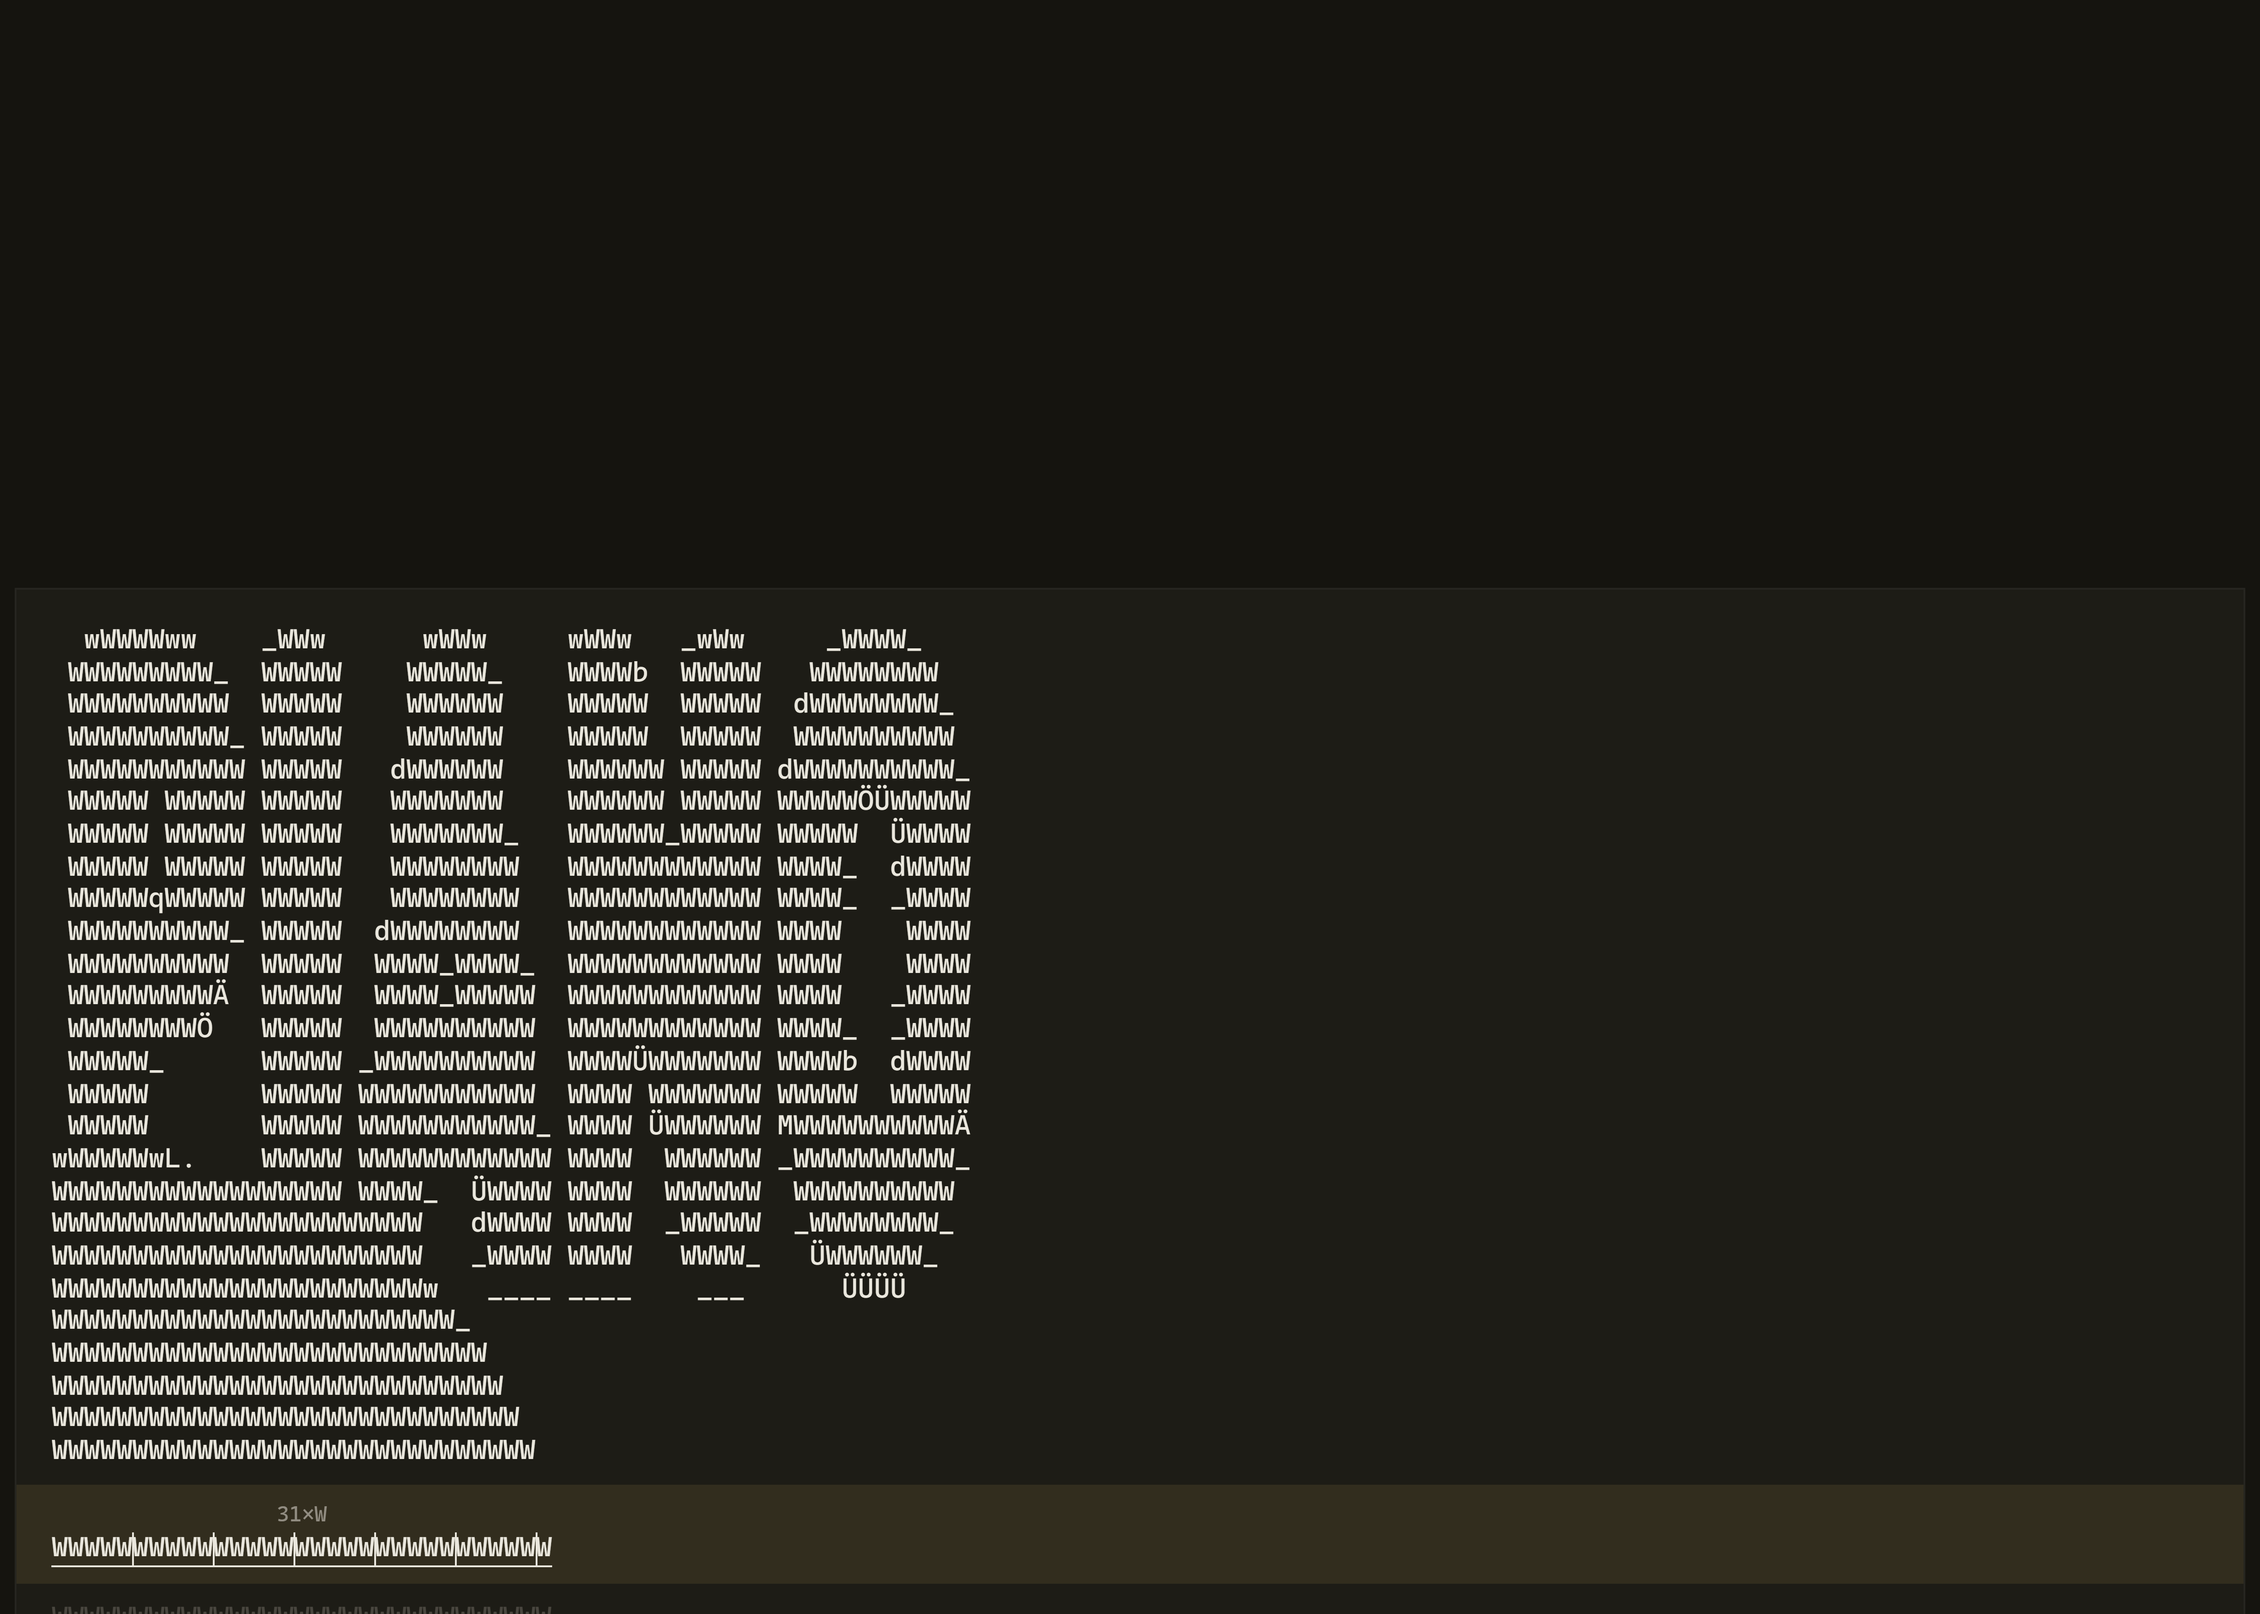
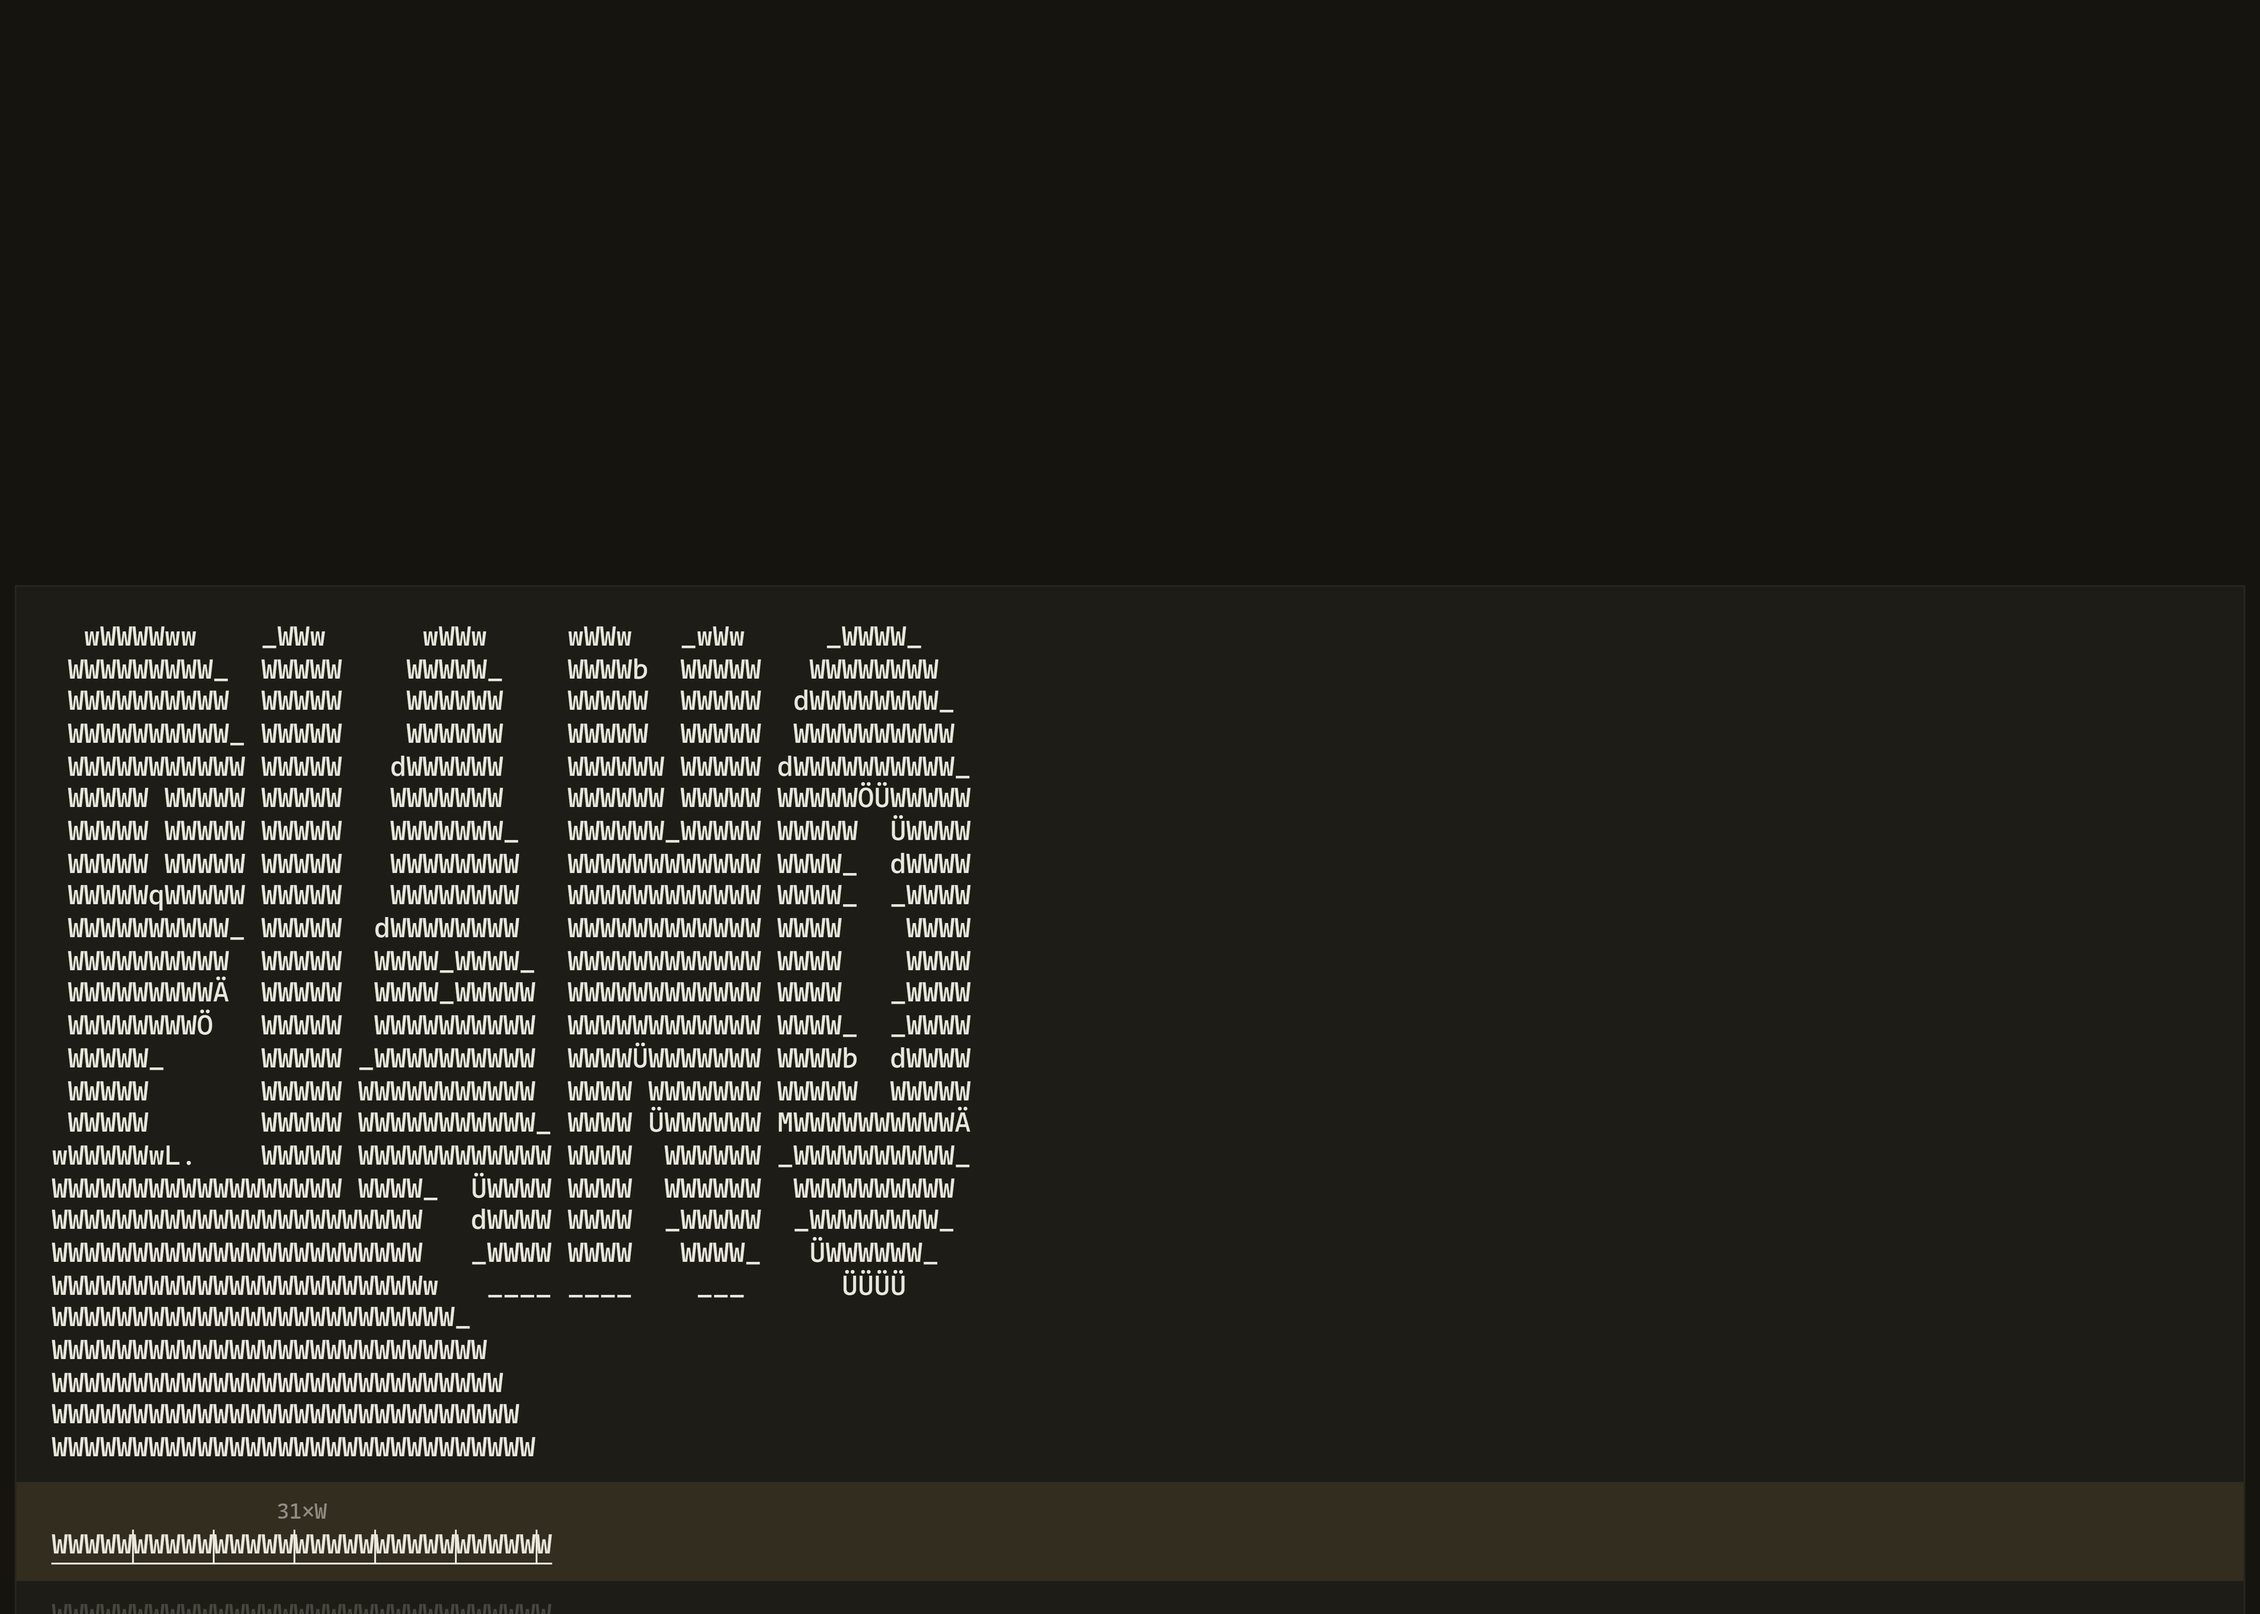
a surface is picked for its edges, not just its ink
A browser's monospace can measure W a shade heavier than B or M, and
then every solid stem of the lettering came out as rows of sawteeth -
peaks and valleys at both cell edges, white gaps between the lines.
Coverage cannot see the one thing that decides whether a stack of one
character reads as a stroke.

So the atlas now measures each glyph's edges: per column, where the ink
begins and ends, and how far those outlines stray from their medians.
The heaviest tone - the one used as a surface, stacked against itself -
is picked among the weights the eye could not tell apart on paper, by
the flatness of those edges. In Courier New that is M, two percent of
ink under W and four times as even. The table atlas measures no edges
and keeps its rank order, so the command line still answers B, honestly,
from the face it was measured against. And a later tone can no longer
outweigh the surface: a shadow heavier than its face is upside down.

The hero screenshot follows the fix.

Changed region(s): [[0.0312, 0.375, 0.4375, 0.9062], [0.0312, 0.9375, 0.25, 0.9688]]

diff --git a/src/core/ink.js b/src/core/ink.js
@@ -137,6 +137,11 @@ function inkCentres(atlas) {
 export function inkLadder({ atlas = null, allowed = null } = {}) {
   const weight = inkWeights(atlas);
   const centre = inkCentres(atlas);
+  // Edge evenness travels with the ladder where the atlas measured it; a
+  // table atlas has none, and zero means "no reason to distrust the edges".
+  const raggedBy = new Map((atlas?.glyphs ?? [])
+    .filter((g) => typeof g.ragged === 'number')
+    .map((g) => [g.ch, g.ragged]));
   const pool = allowed
     ? [...allowed]
     : (atlas?.glyphs ?? []).map((g) => g.ch).filter((c) => c !== ' ');
@@ -146,7 +151,10 @@ export function inkLadder({ atlas = null, allowed = null } = {}) {
   for (const ch of pool) {
     if (ch === ' ' || ch === '\n' || seen.has(ch)) continue;
     seen.add(ch);
-    out.push({ ch, weight: weight(ch), centre: centre(ch) });
+    out.push({
+      ch, weight: weight(ch), centre: centre(ch),
+      ragged: raggedBy.get(ch) ?? 0,
+    });
   }
   // Ties broken by character so the same machine always yields the same
   // ladder — a picker that reshuffles between redraws is unusable.
@@ -181,6 +189,43 @@ const TIE = 3;
 const RANK_COST = 0.02;
 
 /**
+ * Weights this close under the heaviest are the same ink to the eye, and
+ * the flattest edge among them should win the surface. The gap that *is*
+ * visible is known: `H` at 0.171 standing in for `B` at 0.204 — 16% down —
+ * was the flat-grey-wall fault this file exists to fix. 8% keeps the true
+ * dark cluster together and that fault out.
+ */
+const SURFACE_TIE = 0.08;
+
+/**
+ * The heaviest tone is not just the most ink — it is used as a *surface*,
+ * stacked against itself, row upon row, in every solid stroke of the
+ * lettering. Coverage cannot see the one thing that decides whether such a
+ * stack reads as a stroke: the evenness of the edges where cell meets cell.
+ * A browser's monospace can measure `W` a shade heavier than `B`, and then
+ * every calligraphic stem comes out as rows of sawteeth — peaks and valleys
+ * at both edges, white gaps between the lines — where `B`, within a couple
+ * of percent of the same ink, stacks into a bar.
+ *
+ * So the surface is picked among the characters whose weight the eye could
+ * not tell apart on paper (SURFACE_TIE), by the measured evenness of their
+ * edges; among equally flat edges the heavier keeps the job. A table atlas
+ * measures no edges, every `ragged` is zero, and this reduces to rank order
+ * — the same answer as before, stated the long way round.
+ */
+function surfacePick(ladder) {
+  const top = ladder[0].weight;
+  let best = ladder[0];
+  let bestCost = Infinity;
+  for (const g of ladder) {
+    if (g.weight < top - SURFACE_TIE) break;
+    const cost = g.ragged + (top - g.weight) * 0.5;
+    if (cost < bestCost) { bestCost = cost; best = g; }
+  }
+  return best.ch;
+}
+
+/**
  * `n` characters spread from heavy to faint.
  *
  * Picked by **rank**, not by weight. That distinction is the whole point and
@@ -208,23 +253,32 @@ const RANK_COST = 0.02;
 export function toneRamp(n, o = {}) {
   const ladder = inkLadder(o);
   if (!ladder.length) return [];
-  if (n <= 1) return [ladder[0].ch];
+  if (n <= 1) return [surfacePick(ladder)];
 
   const out = [];
+  let surface = null;
   for (let i = 0; i < n; i++) {
+    if (i === 0) {
+      const ch = surfacePick(ladder);
+      surface = ladder.find((g) => g.ch === ch);
+      out.push(ch);
+      continue;
+    }
     // Rank quantile: 0 is the heaviest character the machine has, 1 the
     // faintest.
     const at = Math.round((i / (n - 1)) * (ladder.length - 1));
 
     // Among characters of indistinguishable weight, prefer the one whose ink
     // sits nearest the middle of the cell — but only by enough to beat the
-    // exact rank. Never one already spent.
+    // exact rank. Never one already spent, and never one heavier than the
+    // surface: a shadow that outweighs its face is upside down.
     let best = null;
     let bestCost = Infinity;
     for (let k = Math.max(0, at - TIE);
          k <= Math.min(ladder.length - 1, at + TIE); k++) {
       const g = ladder[k];
       if (out.includes(g.ch)) continue;
+      if (g.weight > surface.weight) continue;
       const cost = Math.abs(g.centre - 0.5) + Math.abs(k - at) * RANK_COST;
       if (cost < bestCost) { bestCost = cost; best = g.ch; }
     }

diff --git a/src/core/glyphs.js b/src/core/glyphs.js
@@ -116,11 +116,39 @@ export function describeGlyph(ch, font = 'monospace') {
     sum += mask[i];
     moment += Math.floor(i / CELL_W) * mask[i];
   }
+
+  /*
+   * How uneven the ink's top and bottom edges are, as a fraction of the
+   * cell height. Per column that carries ink, note where the ink begins
+   * and ends; the mean deviation of those two outlines from their medians
+   * is the raggedness. A `B` draws one straight line across the top and
+   * another across the bottom and measures near zero; a `W` is peaks and
+   * valleys at both edges. See toneRamp() for why a surface cares.
+   */
+  const tops = [];
+  const bots = [];
+  for (let x = 0; x < CELL_W; x++) {
+    let t = -1;
+    let b = -1;
+    for (let y = 0; y < CELL_H; y++) {
+      if (mask[y * CELL_W + x] > 0.02) { if (t < 0) t = y; b = y; }
+    }
+    if (t >= 0) { tops.push(t); bots.push(b); }
+  }
+  const dev = (a) => {
+    const s = [...a].sort((p, q) => p - q);
+    const m = s[s.length >> 1];
+    return a.reduce((acc, v) => acc + Math.abs(v - m), 0) / a.length;
+  };
+  const ragged = tops.length < 2 ? 0
+    : (dev(tops) + dev(bots)) / (2 * CELL_H);
+
   return {
     ch,
     coverage: sum / mask.length,   // 0…1, for tone
     shape: hist,
     ink: total,
+    ragged,
     /*
      * Where the ink sits vertically, 0 (top) … 1 (bottom).
      *
@@ -150,6 +178,7 @@ export function buildAtlas(chars, font = 'monospace') {
     shape: new Float32Array(RADIAL * ANGULAR),
     ink: 0,
     centre: 0.5,
+    ragged: 0,
   });
 
   for (const ch of chars) glyphs.push(describeGlyph(ch, font));
@@ -179,6 +208,9 @@ export function buildAtlas(chars, font = 'monospace') {
  *             ranking; it needs the rendered glyph. `hasShapes` says so, and
  *             callers are expected to check rather than to quietly get a
  *             shape match that is really a tone match.
+ *   ragged    absent, for the same reason: an edge cannot be recovered from
+ *             a ranking. Without it the surface pick in toneRamp() falls
+ *             back to rank order, which the table does know.
  *
  * @param {Iterable<string>} chars the machine's character set
  * @returns {Object} the same shape as buildAtlas, plus hasShapes: false
